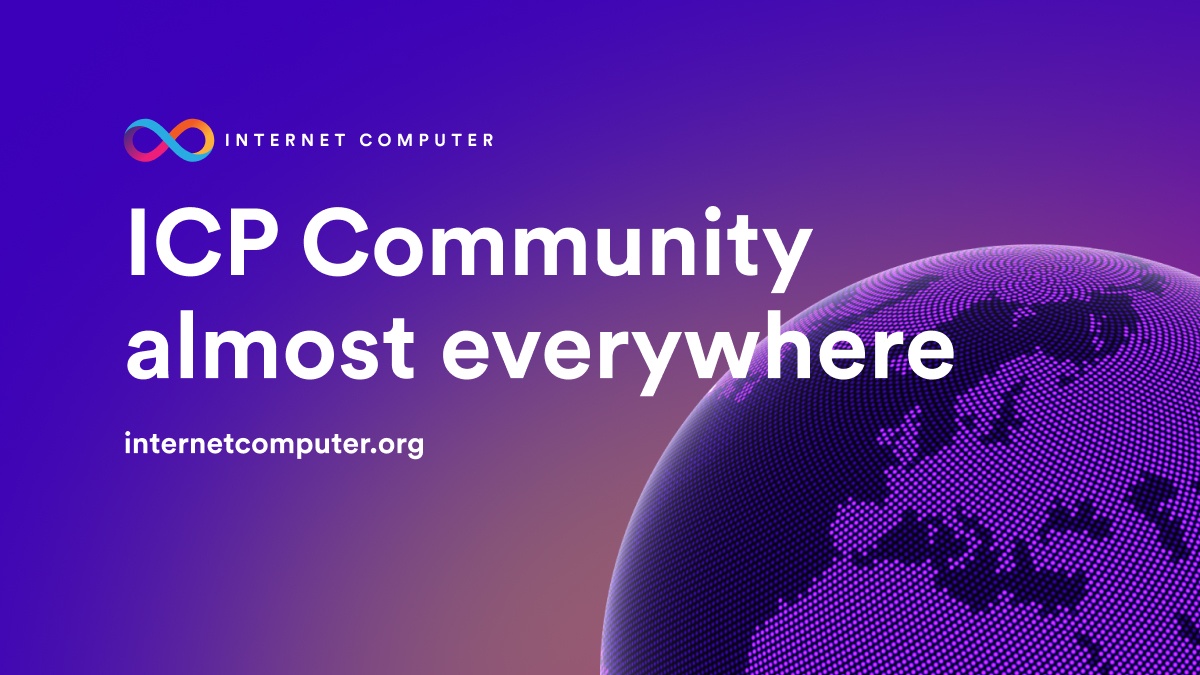
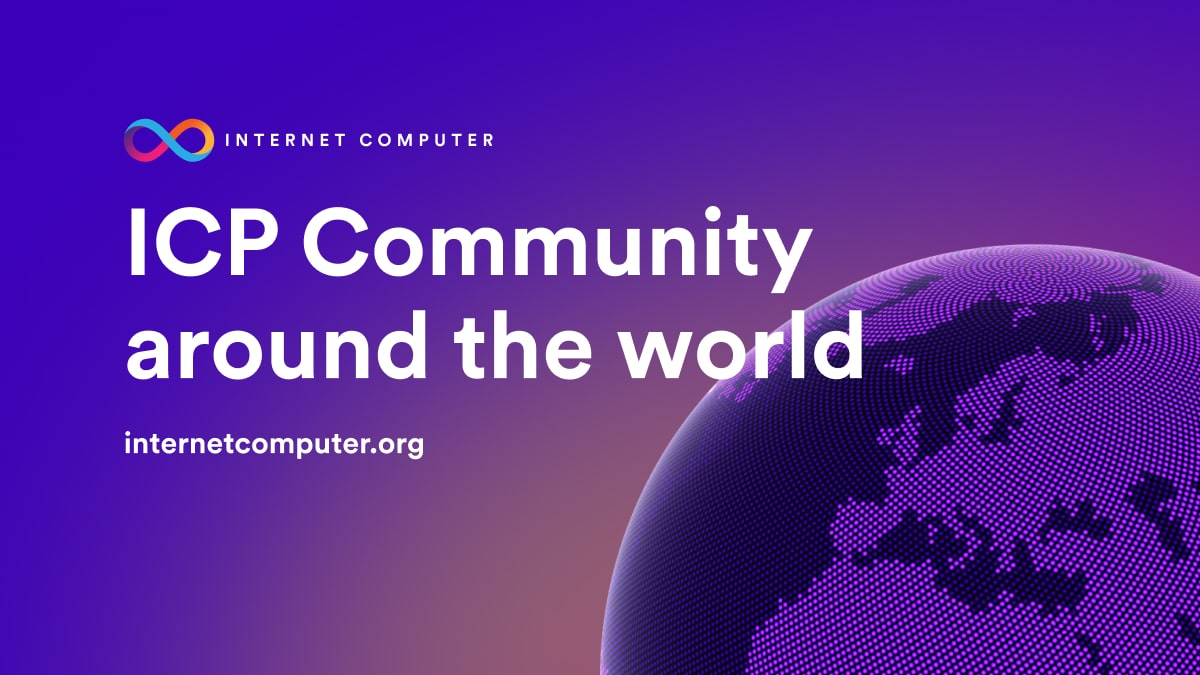
Updated title + meta + share

Changed region(s): [[0.1233, 0.3733, 1.0, 1.0], [0.1233, 0.1556, 0.37, 0.2489], [0.1233, 0.6533, 0.185, 0.6844]]

diff --git a/src/pages/community.tsx b/src/pages/community.tsx
@@ -595,8 +595,8 @@ function CommunityPage() {
 
   return (
     <Layout
-      title="Global Community & ICP.Hubs"
-      description={`Join an inspiring tribe of Web3 creators, builders, educators and enthusiasts on the path to explore what the Internet Computer can solve in today's blockchain ecosystem.`}
+      title="ICP Community almost everywhere"
+      description={`Be part of the inspiring collective of Web3 creators, builders, educators, and enthusiasts as we set out to explore how the Internet Computer can address challenges within today's blockchain ecosystem.`}
       editPath={`https://github.com/dfinity/portal/edit/master/${__filename}`}
     >
       <ShareMeta image="/img/shareImages/share-community.jpg"></ShareMeta>
@@ -626,8 +626,8 @@ function CommunityPage() {
                 className="tw-heading-3 md:tw-heading-2 mb-2 md:mb-6"
                 variants={transitions.item}
               >
-                ICP Community <br />
-                almost everywhere
+                ICP Community<br />
+                around the world
               </motion.h1>
               <motion.p
                 className="tw-lead-sm md:tw-lead mb-0"

diff --git a/docusaurus.config.js b/docusaurus.config.js
@@ -252,7 +252,7 @@ const navbarItems = [
       [
         menuDivider("Get Involved"),
         {
-          label: "Community Hubs",
+          label: "ICP Community",
           href: "/community?source=nav",
         },
         {
